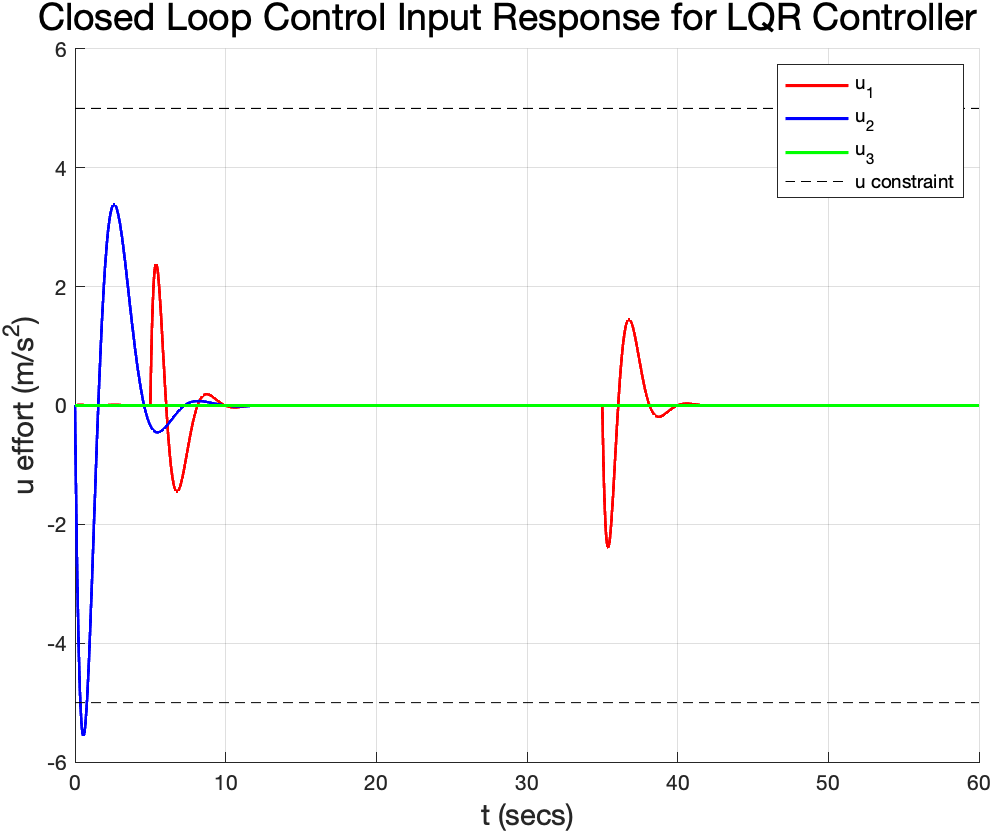
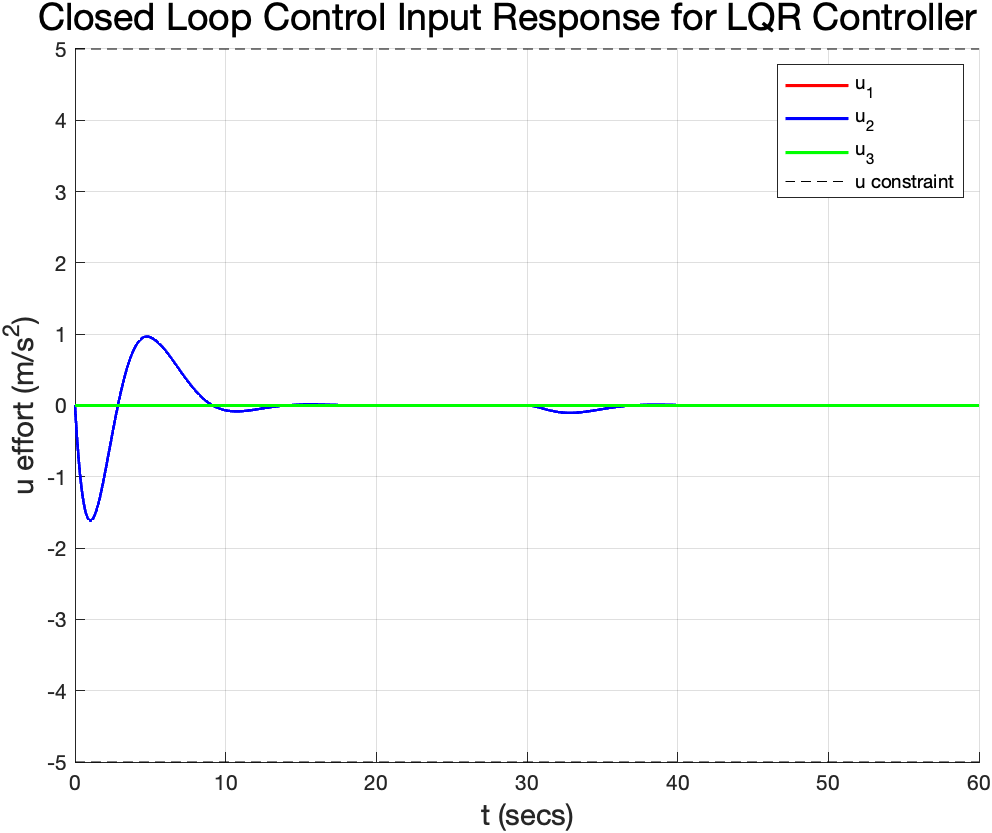
changes to lqr

diff --git a/main.m b/main.m
@@ -112,7 +112,7 @@ leunberger(A,B,C,F,K,P_L,t,r,x0_guess, "Images/obs_nonzero_init_err");
 %% LQR Optimal State Feedback WITHOUT Integral control and WITHOUT Observer
 
 t = t';
-r = [r_MO1 r_zero+r_y_neg_10 r_zero];
+r = [r_zero r_MO2 r_zero];
 
 %%Actuator constraints
 umax = 5; %??? what is a reasonable acceleration constraint ???
@@ -196,12 +196,12 @@ augOLsys = ss(Aaug,Baug,Caug,Daug);
 
 %Define closed-loop plant poles via LQR (only vary awts for now)
 awts = [ones(1,n/2)*100, ones(1,n/2),50,50,50]; %initial design: relative penalties
-bwts = [1,10,1];
+bwts = [1,1,1];
 rho = 12;
 
 awts = awts./sum(awts);
 bwts = bwts./sum(bwts);
-xmax = [10, 10, 10, .1, .1, .1, .1^2, .1^2, .1^2];
+xmax = [10, 10, 10, 1, 1, 1, 1^2, 1^2, 1^2];
 Qaug =  diag(awts./xmax); 
 Raug =  rho*diag(bwts./umax); %rho * eye(p);
 

diff --git a/simLQR.m b/simLQR.m
@@ -1,7 +1,7 @@
 function [CLaugsys,Y_CLOaug,U_CLOaug,Faug] = simLQR(sys,augsys,Kaug,L_poles,t,r,x0,umax,fname)
 
-[A,B,C,D] = ssdata(sys);
-[Aaug,Baug,Caug,Daug] = ssdata(augsys);
+[A,B,C,~] = ssdata(sys);
+[Aaug,Baug,~,~] = ssdata(augsys);
 L = place(A', C', L_poles)';
 
 %%Define observer error augmented closed-loop dynamics with integral states 
